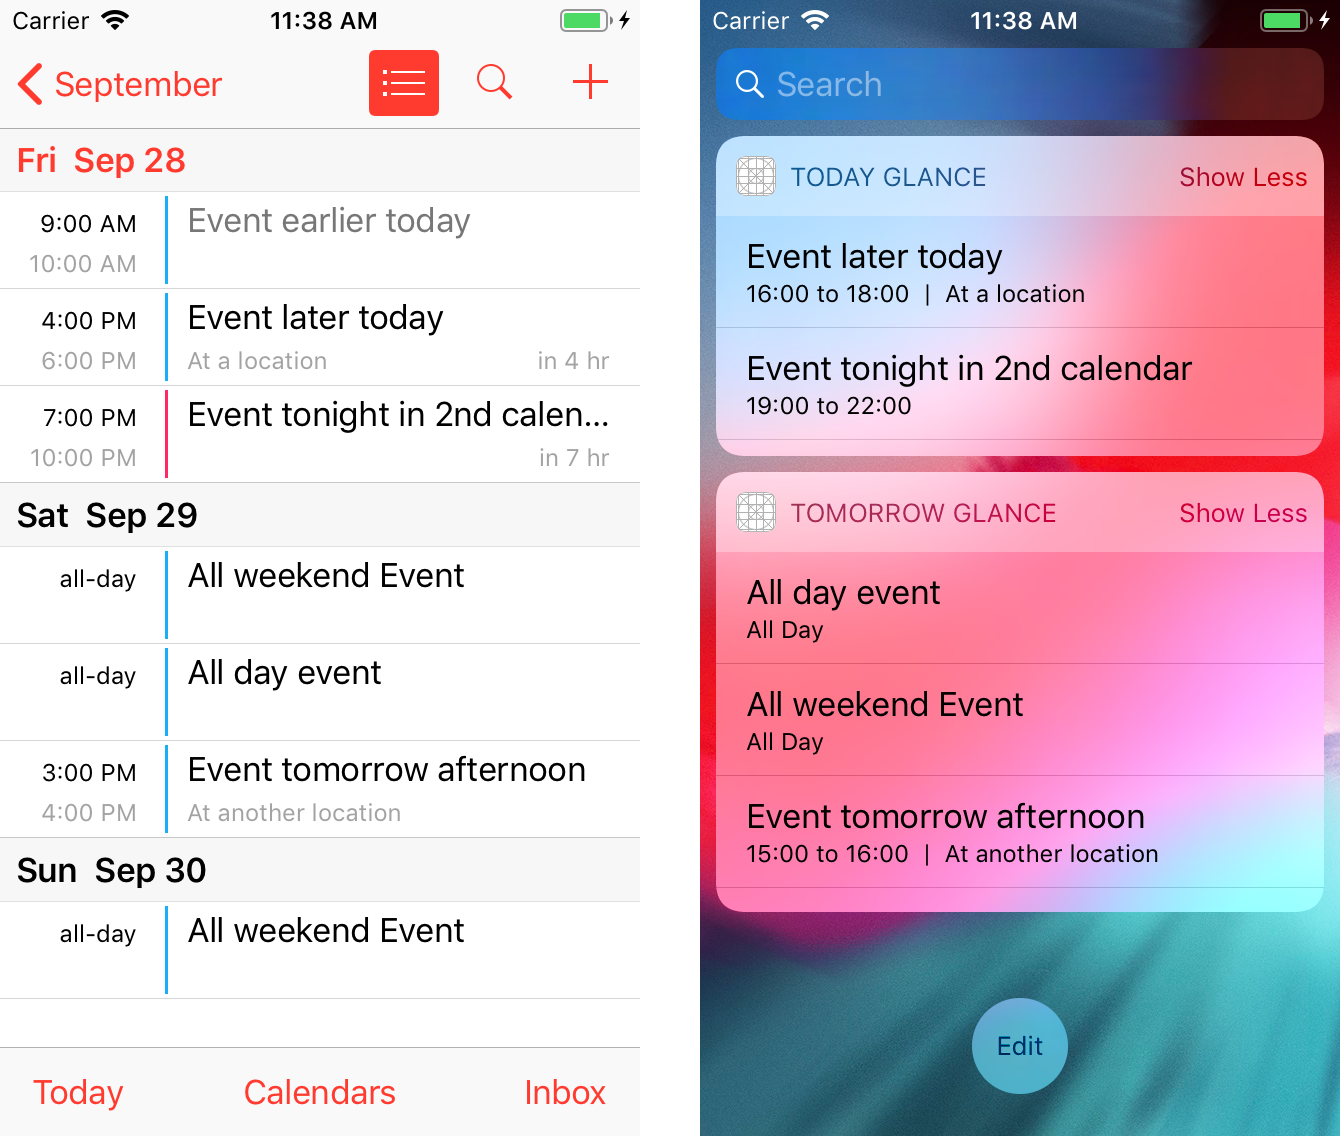
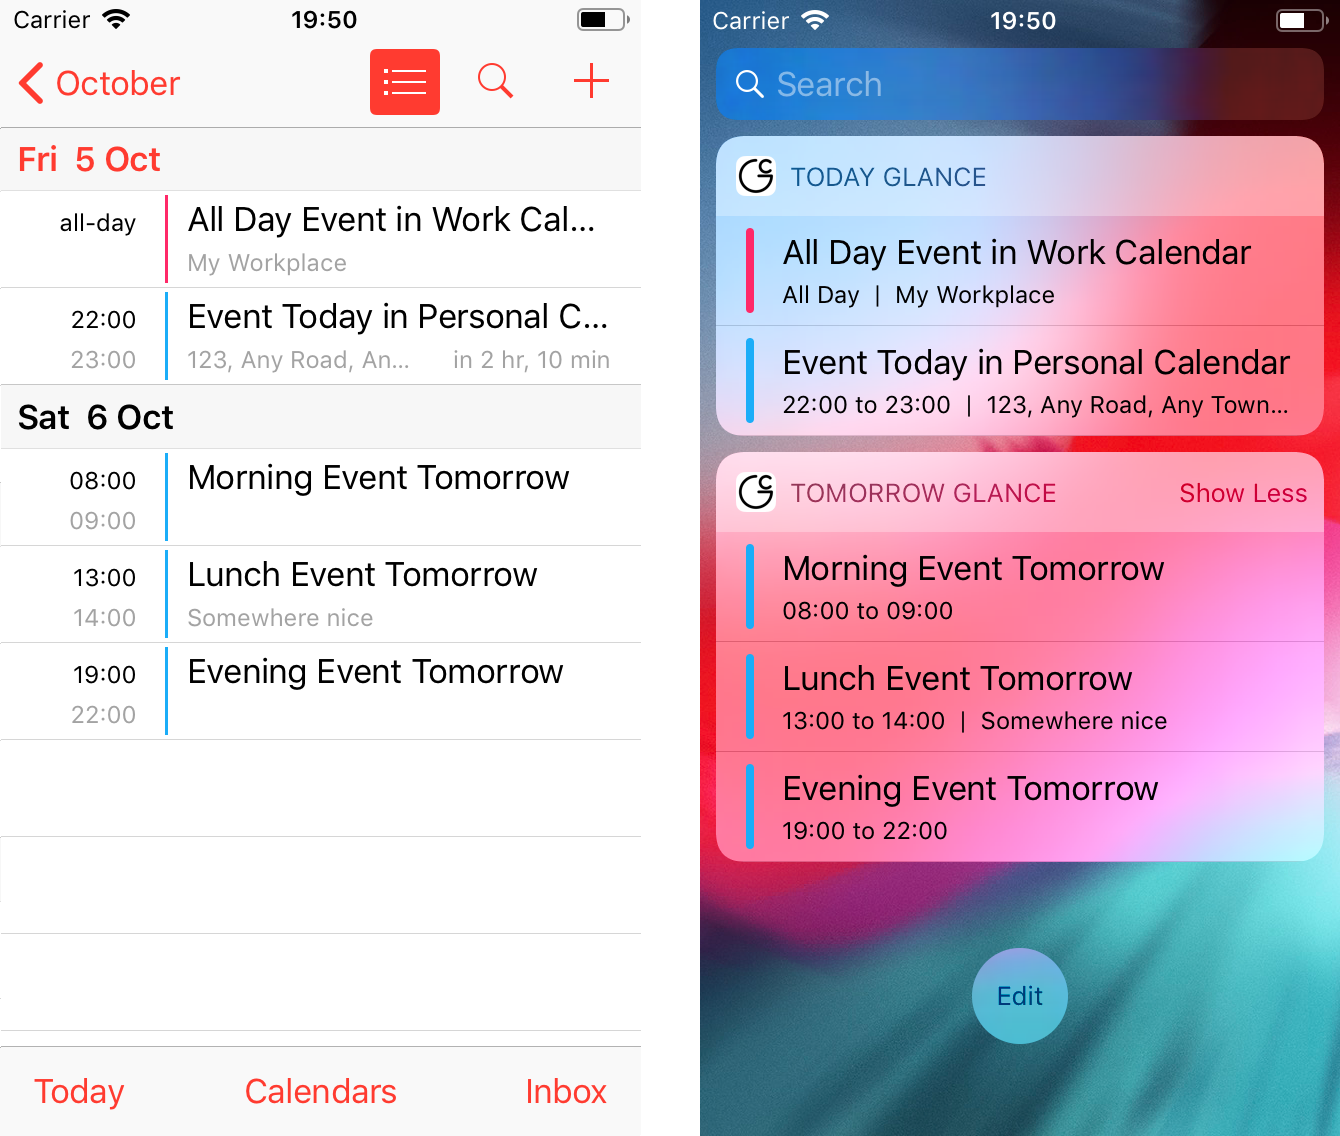
added calendar colour to each event (requires simplification)

diff --git a/Tomorrow Glance/TodayViewController.swift b/Tomorrow Glance/TodayViewController.swift
@@ -92,10 +92,15 @@ class TodayViewController: UIViewController, NCWidgetProviding, UITableViewDeleg
     }
 
     func tableView(_ tableView: UITableView, cellForRowAt indexPath: IndexPath) -> UITableViewCell {
-        let cell = tableView.dequeueReusableCell(withIdentifier: "eventItem", for: indexPath)
 
-        cell.textLabel?.text = data[indexPath.row]["title"] as? String
-        cell.detailTextLabel?.text = data[indexPath.row]["subtitle"] as? String
+        let cell:TomorrowCustomCell = self.tableView.dequeueReusableCell(withIdentifier: "eventItem") as! TomorrowCustomCell
+
+        cell.cellColorView.backgroundColor = data[indexPath.row]["color"] as? UIColor
+        cell.cellColorView.layer.cornerRadius = 2.0
+        cell.cellColorView.clipsToBounds = true
+
+        cell.cellTitleLabel.text = data[indexPath.row]["title"] as? String
+        cell.cellSubtitleLabel.text = data[indexPath.row]["subtitle"] as? String
 
         return cell
     }

diff --git a/Today Glance/TodayViewController.swift b/Today Glance/TodayViewController.swift
@@ -92,10 +92,15 @@ class TodayViewController: UIViewController, NCWidgetProviding, UITableViewDeleg
     }
 
     func tableView(_ tableView: UITableView, cellForRowAt indexPath: IndexPath) -> UITableViewCell {
-        let cell = tableView.dequeueReusableCell(withIdentifier: "eventItem", for: indexPath)
 
-        cell.textLabel?.text = data[indexPath.row]["title"] as? String
-        cell.detailTextLabel?.text = data[indexPath.row]["subtitle"] as? String
+        let cell:TodayCustomCell = self.tableView.dequeueReusableCell(withIdentifier: "eventItem") as! TodayCustomCell
+
+        cell.cellColorView.backgroundColor = data[indexPath.row]["color"] as? UIColor
+        cell.cellColorView.layer.cornerRadius = 2.0
+        cell.cellColorView.clipsToBounds = true
+
+        cell.cellTitleLabel.text = data[indexPath.row]["title"] as? String
+        cell.cellSubtitleLabel.text = data[indexPath.row]["subtitle"] as? String
 
         return cell
     }

diff --git a/Tomorrow Glance/TomorrowCustomCell.swift b/Tomorrow Glance/TomorrowCustomCell.swift
@@ -1,0 +1,19 @@
+//
+//  TomorrowCustomCell.swift
+//  GlanceCal
+//
+//  Created by Jack Hallybone on 05/10/2018.
+//
+
+// TOMORROW
+
+import Foundation
+import UIKit
+
+class TomorrowCustomCell: UITableViewCell {
+
+    @IBOutlet weak var cellTitleLabel: UILabel!
+    @IBOutlet weak var cellSubtitleLabel: UILabel!
+    @IBOutlet weak var cellColorView: UIView!
+
+}

diff --git a/Today Glance/TodayCustomCell.swift b/Today Glance/TodayCustomCell.swift
@@ -1,0 +1,19 @@
+//
+//  TodayCustomCell.swift
+//  GlanceCal
+//
+//  Created by Jack Hallybone on 05/10/2018.
+//
+
+// TODAY
+
+import Foundation
+import UIKit
+
+class TodayCustomCell: UITableViewCell {
+
+    @IBOutlet weak var cellTitleLabel: UILabel!
+    @IBOutlet weak var cellSubtitleLabel: UILabel!
+    @IBOutlet weak var cellColorView: UIView!
+
+}

diff --git a/README.md b/README.md
@@ -22,10 +22,10 @@ Make two quick and simple iOS Today View extensions/widgets that presents all th
 ----
 
 ### To Do:
-- Add calendar colour on the left the default calendar app/extension
+- Fix the custom table cell implementation (there must be a cleaner way)
 - Handle 12h and 24h display options
 - Order the all day events as they are in the calendar app?
-- Link to the event in the calendar app when pressed in extension (or disable table user interaction)?
+- Link to the event in the calendar app when pressed in extension (table interaction currently disabled)?
 - Only need to perform update when there is new data?
 
 
